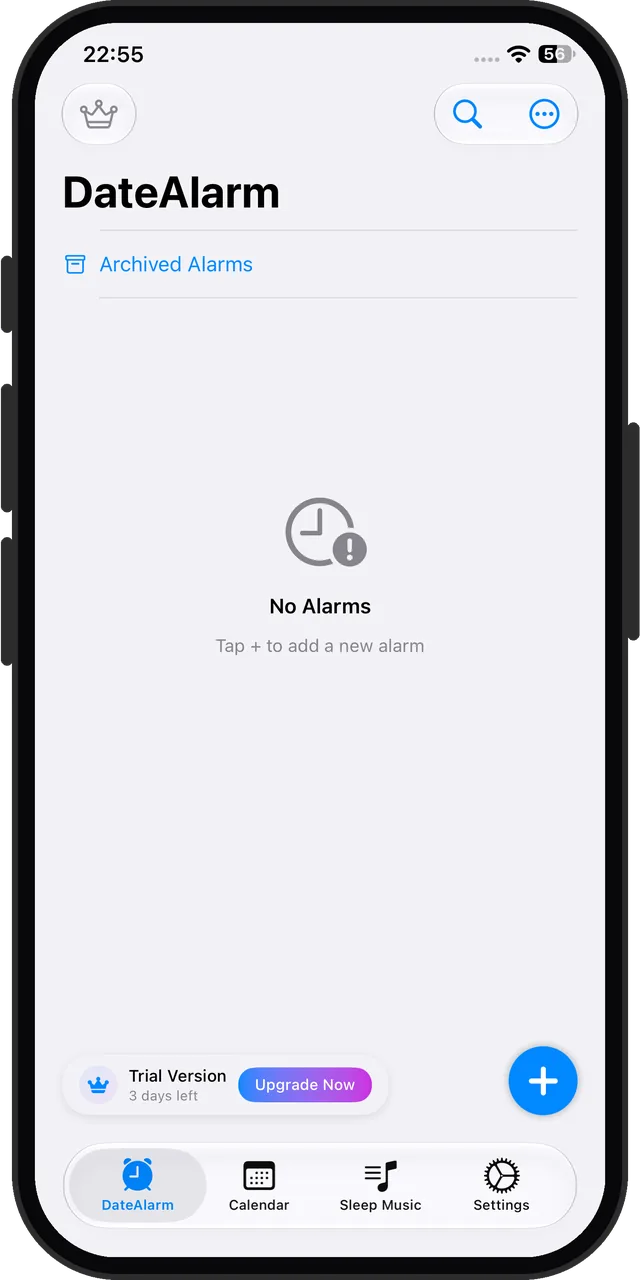
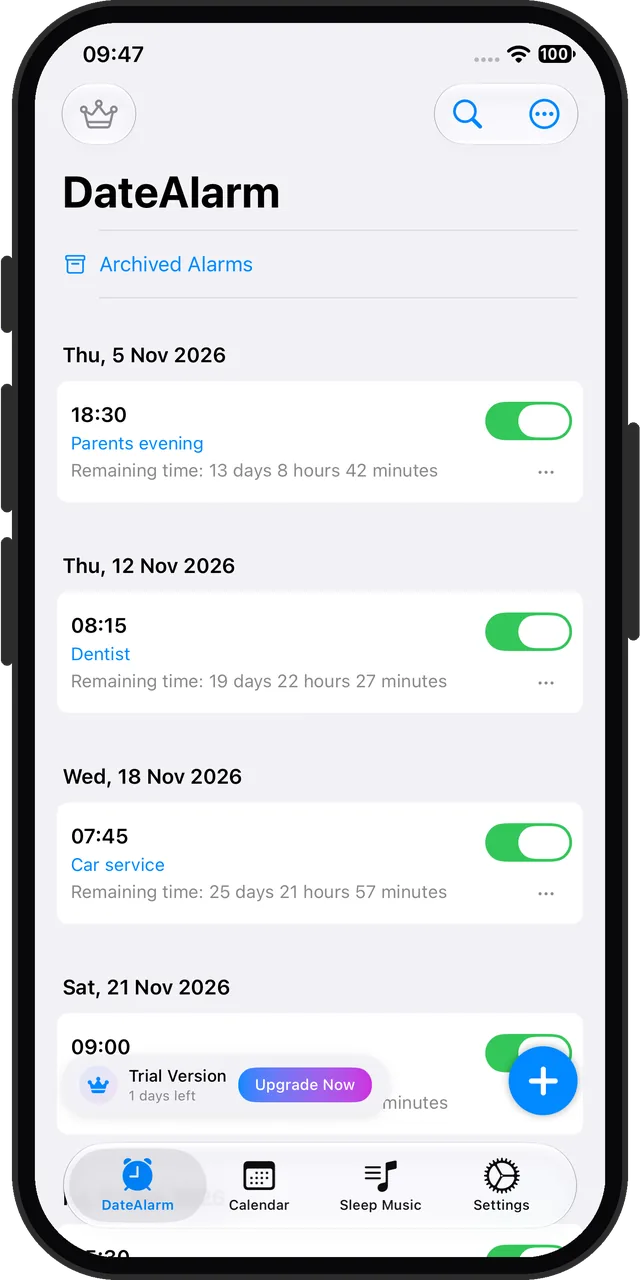
DateAlarm: alarm list recaptured with five alarms
Five November test alarms on the dev iPhone (volume down, switched off
again after the capture), so the page shows the list as it looks in use.

diff --git a/compare/alarm-clock-planner-vs-datealarm/index.html b/compare/alarm-clock-planner-vs-datealarm/index.html
@@ -194,10 +194,10 @@
   <p>Screens we captured ourselves on 20 Oct 2026, DateAlarm on the left, ours on the right.<sup class="fn"><a href="#fn-test" aria-label="Note †">†</a></sup></p>
   <div class="sbs-row">
     <h3>The main screen</h3>
-    <p>DateAlarm&#x27;s alarm list, empty here, with its trial countdown at the bottom.</p>
+    <p>DateAlarm&#x27;s alarm list with five alarms in November, each on its own card under its date with the time left until it rings, and the trial countdown at the bottom.</p>
     <div class="sbs-pair">
     <figure>
-  <img class="screen" src="/assets/compare/datealarm-list.webp" alt="DateAlarm&#x27;s alarm list, empty here, with its trial countdown at the bottom" loading="lazy" width="640" height="1280">
+  <img class="screen" src="/assets/compare/datealarm-list.webp" alt="DateAlarm&#x27;s alarm list with five alarms in November, each on its own card under its date with the time left until it rings, and the trial countdown at the bottom" loading="lazy" width="640" height="1280">
   <figcaption>DateAlarm 1.94 · 20 Oct 2026</figcaption>
 </figure>
     <figure>

diff --git a/compare/index.html b/compare/index.html
@@ -390,7 +390,7 @@
   <p>A small app for future dates: birthdays, anniversaries and deadlines, with countdowns, categories and notes. The catch is how it rings: the native iPhone alarm is a membership feature, from $3.99 a week, and the free version sends notifications. Data stays on the device.</p>
   <div class="app-card-body with-shot">
   <figure>
-  <img class="screen" src="/assets/compare/datealarm-list.webp" alt="DateAlarm&#x27;s alarm list, empty here, with its trial countdown at the bottom" loading="lazy" width="640" height="1280">
+  <img class="screen" src="/assets/compare/datealarm-list.webp" alt="DateAlarm&#x27;s alarm list with five alarms in November, each on its own card under its date with the time left until it rings, and the trial countdown at the bottom" loading="lazy" width="640" height="1280">
   <figcaption>DateAlarm 1.94 · 20 Oct 2026</figcaption>
 </figure>
   <div class="card-side">
